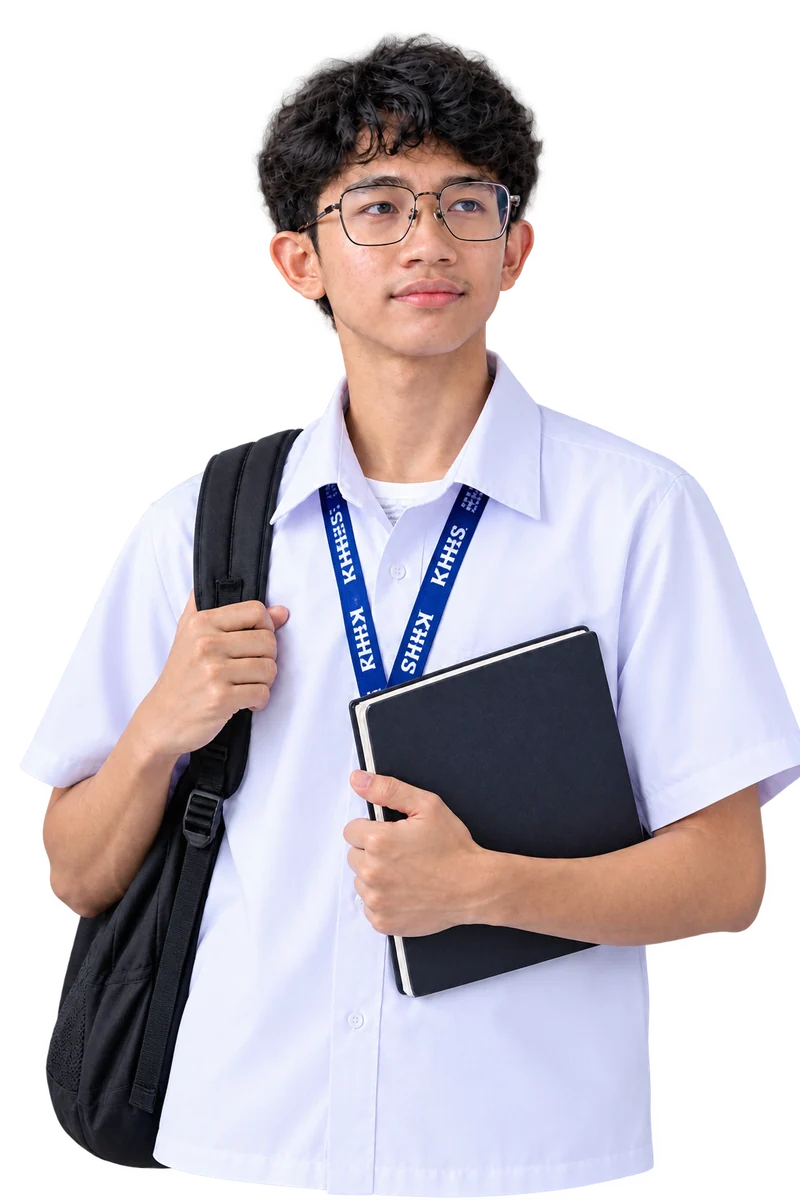
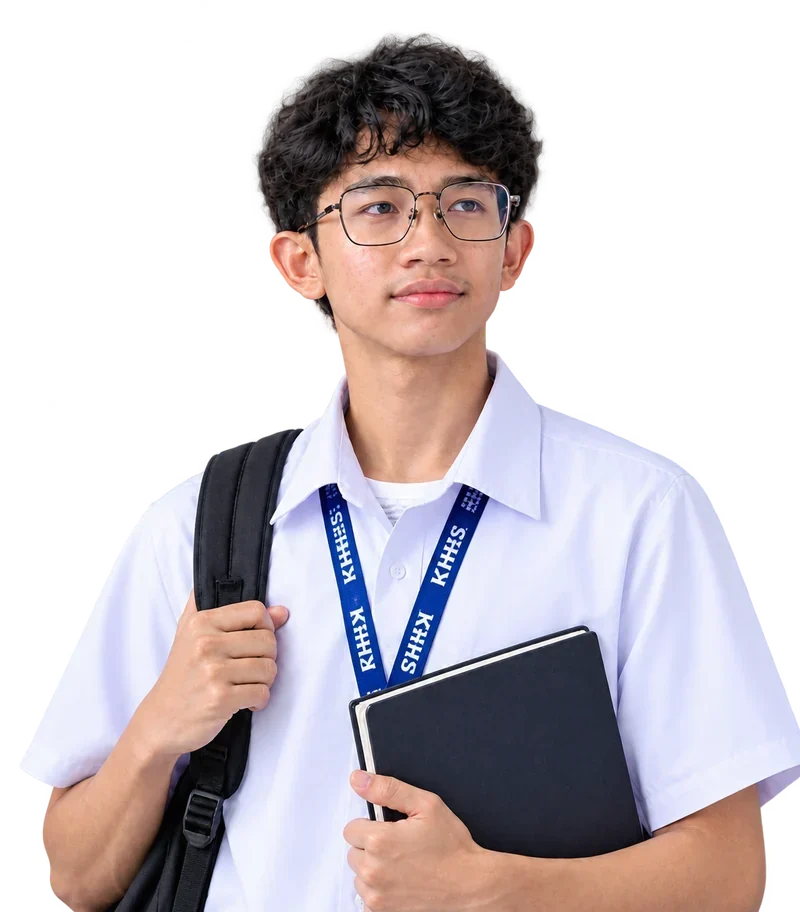
fix: sink login student figure so the overflow clip hides its lower body
Drop the bottom-right composition past the aside's bottom edge and let the existing overflow clip trim it, hiding the legless lower body. The offset is a share of --student-h and is applied to the figure and both glows, so the whole composition stays locked together at every viewport.

diff --git a/frontend/src/App.css b/frontend/src/App.css
@@ -990,14 +990,20 @@
   /* Single scale control for the bottom-right composition (the student figure
      and both glows behind it). Anything expressed as a multiple of this stays
      locked to the artwork at every viewport size, so the figure never drifts
-     off the seam or out of the halo as the window changes. Height drives the
-     size; the 70vw ceiling stops the frame from outgrowing the aside on tall
-     windows — the figure is 2/3 of this tall while the aside is 52vw wide, so
-     70vw caps it at 46.7vw and it can never reach the seam. Because the upper
-     bound is relative, the portrait keeps growing on large displays instead of
-     freezing at a fixed pixel height. */
-  --student-h: clamp(300px, 66vh, 70vw);
-  --student-crop: 31%;
+     out of the halo as the window changes. Height drives the size. The frame is
+     50/57 as wide as it is tall, so the height is scaled to keep the figure at
+     the same rendered scale as the full-length artwork it was cropped from — a
+     shorter box showing the same figure at the same size. The 53vw ceiling
+     stops the frame from outgrowing the aside on tall windows: 0.877 × 53vw =
+     46.5vw, comfortably inside the 52vw aside. Because the upper bound is
+     relative, the portrait keeps growing on large displays instead of freezing
+     at a fixed pixel height. */
+  --student-h: clamp(228px, 50vh, 53vw);
+  /* Sink the whole composition (figure and both glows) past the aside's bottom
+     edge, so the aside's overflow clip hides the bottom of the artwork — the
+     legless lower body never shows. A share of --student-h, so exactly the same
+     amount is hidden at every viewport. */
+  --student-drop: calc(var(--student-h) * -0.15);
   /* Campus backdrop — the school photograph sits under navy washes that stay
      dense over the brand row, tagline and role cards, then clear toward the
      bottom where the student stands. Flat navy fallback shows while loading. */
@@ -1040,7 +1046,7 @@
   content: "";
   position: absolute;
   right: calc(var(--student-h) * -0.18);
-  bottom: calc(var(--student-h) * -0.18);
+  bottom: calc(var(--student-h) * -0.18 + var(--student-drop));
   width: calc(var(--student-h) * 0.97);
   height: calc(var(--student-h) * 0.97);
   /* Multi-layer: outer glow + inner bright ring */
@@ -1058,7 +1064,7 @@
 .aside-student-glow {
   position: absolute;
   right: calc(var(--student-h) * -0.21);
-  bottom: calc(var(--student-h) * 0.14);
+  bottom: calc(var(--student-h) * 0.14 + var(--student-drop));
   width: calc(var(--student-h) * 0.66);
   height: calc(var(--student-h) * 0.66);
   background: radial-gradient(circle, rgba(59,130,246,0.28) 0%, rgba(37,99,235,0.14) 40%, transparent 68%);
@@ -1177,12 +1183,14 @@
 .aside-student-img {
   position: absolute;
   /* Right edge sits exactly on the aside/panel border. The frame is sized from
-     the artwork's own 2:3 aspect ratio rather than a width clamp, so the crop
+     the artwork's own 50:57 aspect ratio rather than a width clamp, so the crop
      applied to the PNG below stays the same proportion at every viewport. */
   right: 0;
-  bottom: 0;
+  /* Sunk below the aside's bottom edge, so the overflow clip cuts the figure
+     above the legless lower body instead of showing it. */
+  bottom: var(--student-drop);
   height: var(--student-h);
-  aspect-ratio: 2 / 3;
+  aspect-ratio: 50 / 57;
   z-index: 10;
   pointer-events: none;
   user-select: none;
@@ -1195,13 +1203,6 @@
   max-width: none;
   object-fit: contain;
   object-position: bottom right;
-  /* The artwork is a full-bleed portrait with the figure centred in the frame
-     (subject centroid ≈51% across). Sliding the whole frame right by a fixed
-     share of its own width tucks the empty right margin behind the seam, which
-     brings the figure to the edge — by the same amount at every size, because
-     the shift is a percentage of the frame and not a mix of viewport width and
-     viewport height. The aside's own overflow clip trims the overhang. */
-  transform: translateX(var(--student-crop));
 }
 
 /* Location footer */
